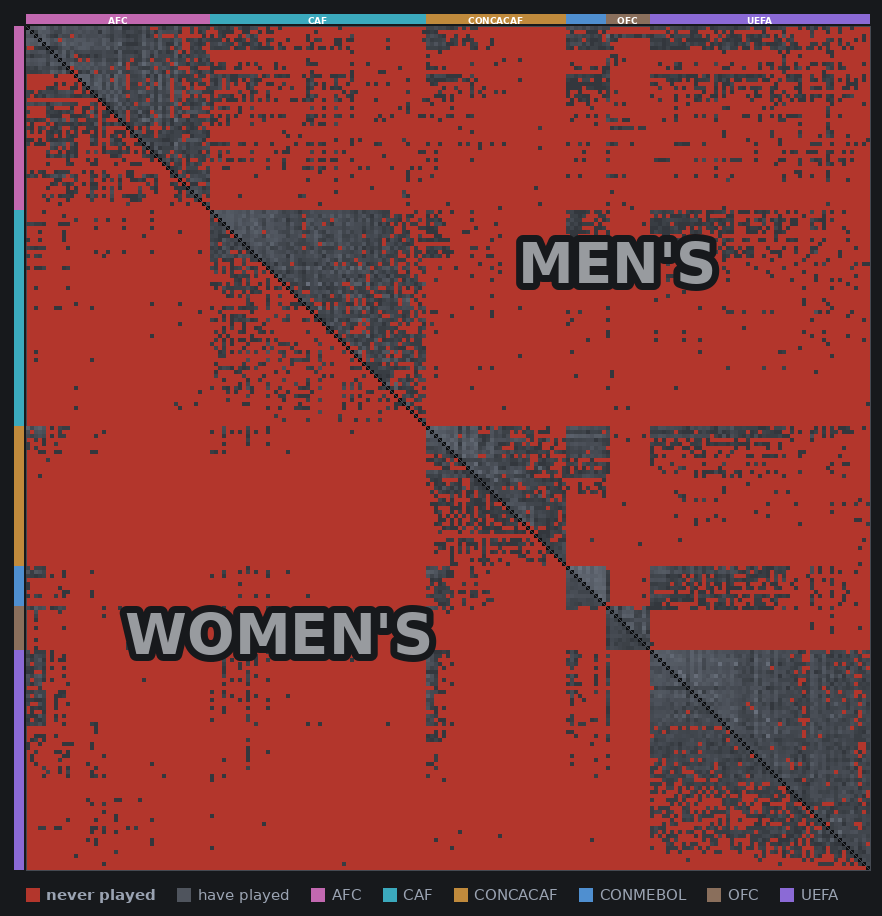
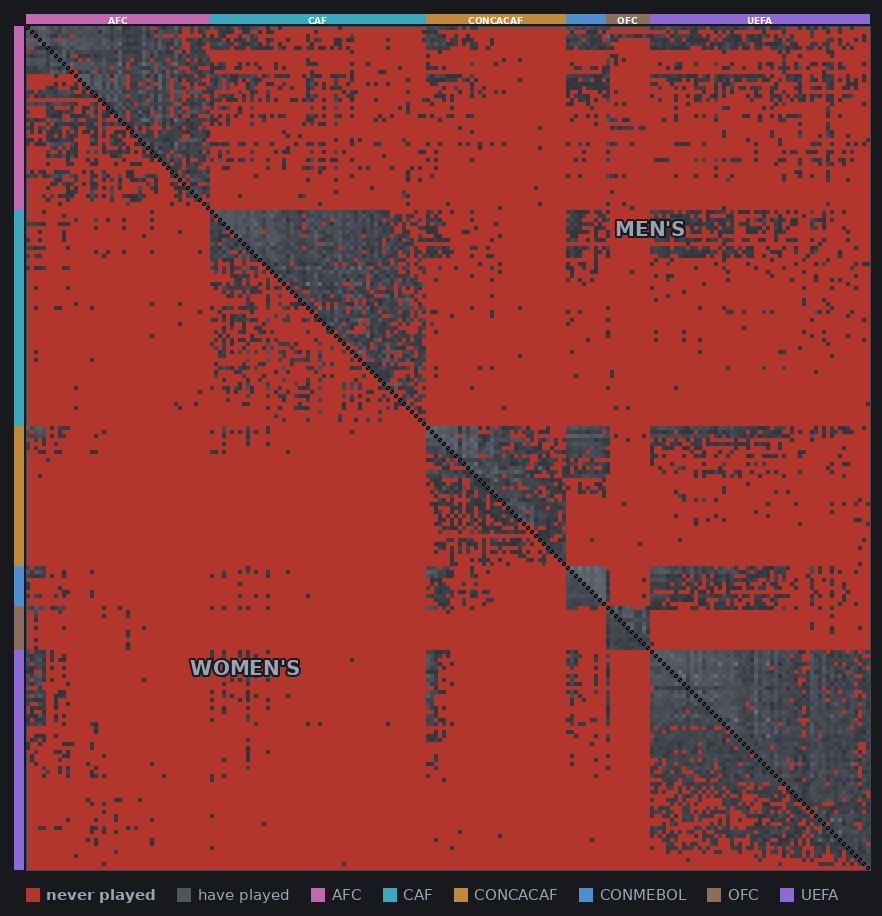
Quieten the crease labels, and say which table the rank comes from (#15)
MEN'S and WOMEN'S were set at a fifteenth of the grid's width, which made
them a headline stamped across the data rather than a note about the fold.
They are a caption now: the panel's own label size and colour, pushed out
towards the corners, haloed thinly enough to survive the red field and the
green ramp without reading as a badge. render_hero.py follows, so the README
image is quiet in the same way. The share card is unchanged — it never drew
them.

The sheet also carries two FIFA rankings, and which of them orders it is not
a question the sheet can answer for you. *Rank by* now reads the men's table,
the women's, the average of the two, or — the default, and what the fold
shipped with — whichever of a team's two ranks is better. It sits under Sort
and greys out over the two orders that read no ranking table at all.

An average is an average only where there are two numbers to take it of, so a
team the chosen table does not rank sorts last, as the women's-only teams
already did. The rank printed beside a team in the panel moves with the
setting and names it on hover, and lands between the tables often enough to
want a decimal.

Claude-Session: https://claude.ai/code/session_01Ktg1PkqJw6sBz1Wh5qyDsh

Changed region(s): [[0.1224, 0.6419, 0.4898, 0.7642], [0.5816, 0.214, 0.8265, 0.3362]]

diff --git a/docs/app.js b/docs/app.js
@@ -37,6 +37,7 @@ const S = {
   view: "grid",
   folded: false,                     // the square folded in half along its diagonal
   sort: "confed",                    // "confed" | "rank" | "matches" | "alpha"
+  rankBy: "best",                    // "best" | "men" | "women" | "avg" — see rankOf()
   showConfeds: new Set(),
   manual: new Set(),
   includeDefunct: false,
@@ -409,11 +410,27 @@ function ensureYearsForView() {
 }
 
 /* ---------- ordering ---------- */
-// One sheet, one order: a team sits at its better (lower) rank of the two tables.
+/* One sheet, two ranking tables, so which one orders it is a question the sheet cannot
+   answer for you. The default is the better of a team's two ranks, which flatters nobody
+   and keeps every team placed. Picking one table sorts the teams it does not rank last,
+   and so does the average, which is an average only when there are two numbers to take
+   it of — about fourteen members have never been given a women's ranking. */
+const RANK_BY = ["best", "men", "women", "avg"];
 function rankOf(m) {
-  return Math.min(m.mens_rank == null ? Infinity : m.mens_rank,
-                  m.womens_rank == null ? Infinity : m.womens_rank);
+  const men = m.mens_rank == null ? Infinity : m.mens_rank;
+  const women = m.womens_rank == null ? Infinity : m.womens_rank;
+  switch (S.rankBy) {
+    case "men": return men;
+    case "women": return women;
+    case "avg": return (men + women) / 2;        // Infinity if either is missing
+    default: return Math.min(men, women);
+  }
 }
+// What the rank shown next to a team, and the order it sits in, is measured against.
+const rankLabel = () => (S.rankBy === "men" ? "men's FIFA rank"
+  : S.rankBy === "women" ? "women's FIFA rank"
+    : S.rankBy === "avg" ? "the average of the two ranks"
+      : "the better of the two ranks");
 
 // Which datasets a pair has met in, as of the scrubber year. Bitmask 1 = men, 2 = women,
 // so 3 = both, 0 = neither. The split square says this with geometry; the single-team card,
@@ -839,17 +856,20 @@ function drawCrease(n, ox, oy, cell) {
   ctx.lineTo(ox + L, oy + L);
   ctx.stroke();
 
+  /* The two halves need naming, but a caption is not a headline: at the panel's own label
+     size and colour they read as an annotation of the crease rather than a word stamped
+     across the data. Haloed in the page ground, because they cross both the red field and
+     the grey one. */
   if (L >= 190) {
-    const size = Math.max(12, Math.min(58, L / 15));
+    const size = Math.max(10, Math.min(20, L / 40));
     ctx.font = `700 ${size}px ui-sans-serif, system-ui, -apple-system, sans-serif`;
     ctx.textAlign = "center";
     ctx.textBaseline = "middle";
     ctx.lineJoin = "round";
-    ctx.lineWidth = Math.max(3, size / 4);
+    ctx.lineWidth = Math.max(2, size / 4);       // a thin halo, not a badge
     ctx.strokeStyle = getCss("--bg");
-    ctx.fillStyle = getCss("--ink");
-    ctx.globalAlpha = .62;
-    for (const [text, fx, fy] of [["MEN'S", .7, .28], ["WOMEN'S", .3, .72]]) {
+    ctx.fillStyle = getCss("--ink-2");
+    for (const [text, fx, fy] of [["MEN'S", .74, .24], ["WOMEN'S", .26, .76]]) {
       const x = ox + L * fx, y = oy + L * fy;
       ctx.strokeText(text, x, y);
       ctx.fillText(text, x, y);
@@ -2180,6 +2200,7 @@ function writeUrl() {
     if (S.view !== "grid") p.set("view", S.view);
     if (S.folded) p.set("fold", "1");
     if (S.sort !== "confed") p.set("sort", S.sort);
+    if (S.rankBy !== "best") p.set("rank", S.rankBy);
     if (S.showConfeds.size < S.confedOrder.length) {
       p.set("confed", [...S.showConfeds].join(",") || "none");
     }
@@ -2206,6 +2227,7 @@ function readUrl() {
   S.folded = p.get("fold") === "1" || p.get("g") === "both";
   const sort = p.get("sort");
   if (["confed", "rank", "matches", "alpha"].includes(sort)) S.sort = sort;
+  if (RANK_BY.includes(p.get("rank"))) S.rankBy = p.get("rank");
   if (p.has("confed")) {
     const raw = p.get("confed");
     S.showConfeds = new Set(raw === "none" ? []
@@ -2377,7 +2399,22 @@ function buildControls() {
 
   const sortSel = $("sort");
   sortSel.value = S.sort;
-  sortSel.addEventListener("change", e => { S.sort = e.target.value; recompute(true); });
+  sortSel.addEventListener("change", e => {
+    S.sort = e.target.value;
+    syncRankBy();
+    recompute(true);
+  });
+
+  const rankSel = $("rank-by");
+  if (rankSel) {
+    rankSel.value = S.rankBy;
+    rankSel.addEventListener("change", e => {
+      S.rankBy = e.target.value;
+      buildTeamList();                           // the rank printed per team moves with it
+      recompute(true);
+    });
+  }
+  syncRankBy();
 
   // confederation checkboxes
   const counts = {};
@@ -2511,6 +2548,18 @@ function buildControls() {
   });
 }
 
+/* The rank basis only bites on the two orders that read a ranking table. Enabled and
+   inert over "total matches" or "alphabetical", it would read as a broken control. */
+function syncRankBy() {
+  const el = $("rank-by");
+  if (!el) return;
+  const bites = S.sort === "confed" || S.sort === "rank";
+  el.disabled = !bites;
+  el.title = bites ? "" : "This sort does not read a ranking table";
+  const row = $("rank-by-row");
+  if (row) row.classList.toggle("dim", !bites);
+}
+
 function toggleConfeds(on) {
   S.showConfeds = on ? new Set(S.confedOrder) : new Set();
   document.querySelectorAll("#confed-list input").forEach(i => { i.checked = on; });
@@ -2528,9 +2577,13 @@ function buildTeamList() {
     if (q && !m.name.toLowerCase().includes(q)) continue;
     const lab = document.createElement("label");
     const r = rankOf(m);
-    const rk = (r && r !== Infinity) ? `#${r}` : (m.defunct ? "defunct" : "unranked");
+    // An averaged rank lands between the two tables, so it is not always a whole number.
+    const rk = (r && r !== Infinity)
+      ? `#${Number.isInteger(r) ? r : r.toFixed(1)}`
+      : (m.defunct ? "defunct" : "unranked");
     lab.innerHTML = `<input type="checkbox" data-id="${m.id}" ${S.manual.has(m.id) ? "checked" : ""}>
-      ${esc(teamLabel(m))} <span class="rk">${esc(m.confed)} ${esc(rk)}</span>`;
+      ${esc(teamLabel(m))} <span class="rk" title="${esc(rankLabel())}">`
+      + `${esc(m.confed)} ${esc(rk)}</span>`;
     list.appendChild(lab);
   }
   list.onchange = e => {

diff --git a/docs/style.css b/docs/style.css
@@ -171,10 +171,14 @@ button.mini:hover { color: var(--ink); border-color: var(--ink); }
 .team-list .rk { margin-left: auto; color: var(--ink-3); font-size: .68rem; font-variant-numeric: tabular-nums; }
 .team-list input { accent-color: var(--pos); }
 
-#sort, .path-pick select {
+#sort, #rank-by, .path-pick select {
   width: 100%; padding: 7px 9px; background: var(--paper); border: 1px solid var(--grid-strong);
   color: var(--ink); border-radius: var(--radius); font-size: .85rem; cursor: pointer; font-family: inherit;
 }
+#rank-by-row { margin-top: 10px; }
+/* Greyed out under a sort that reads no ranking table, label and all. */
+#rank-by:disabled { opacity: .45; cursor: default; }
+#rank-by-row.dim .lbl { opacity: .45; }
 
 /* timeline */
 #timeline-toggle { display: none; }          /* phone-only; see the mobile block below */

diff --git a/docs/index.html b/docs/index.html
@@ -63,6 +63,15 @@
         <option value="matches">Total matches played</option>
         <option value="alpha">Alphabetical</option>
       </select>
+      <div class="row" id="rank-by-row"><label class="lbl" for="rank-by">Rank by</label></div>
+      <select id="rank-by">
+        <option value="best">The better of the two</option>
+        <option value="men">Men's FIFA rank</option>
+        <option value="women">Women's FIFA rank</option>
+        <option value="avg">The average of the two</option>
+      </select>
+      <p class="hint">One sheet, two ranking tables. Teams the chosen table does not rank
+        sort last.</p>
     </section>
 
     <section class="ctl">

diff --git a/render_hero.py b/render_hero.py
@@ -116,10 +116,9 @@ def load_sheet():
     return members, counts, played, max_count
 
 
-def watermark_ink() -> tuple[int, int, int]:
-    """The half-labels, matching the canvas: --ink at 62% over the page ground."""
-    c0, c1 = hexrgb(CHROME), hexrgb(VARS["--ink"])
-    return tuple(round(a + (b - a) * 0.62) for a, b in zip(c0, c1))
+def crease_ink() -> tuple[int, int, int]:
+    """The half-labels. A caption, not a headline — the panel's own label colour."""
+    return hexrgb(VARS["--ink-2"])
 
 
 def played_grey(t: float) -> tuple[int, int, int]:
@@ -169,14 +168,14 @@ def draw_grid(d: ImageDraw.ImageDraw, members, counts, max_count, ox: int, oy: i
     d.line([(ox, oy), (ox + size, oy + size)],
            fill=GRID_STRONG, width=max(1, min(3, round(cell * 0.3))))
     if label:
-        pt = max(12, min(58, size // 15))
+        pt = max(10, min(20, size // 40))
         font = load_font(pt)
-        for text, fx, fy in (("MEN'S", 0.70, 0.28), ("WOMEN'S", 0.30, 0.72)):
+        for text, fx, fy in (("MEN'S", 0.74, 0.24), ("WOMEN'S", 0.26, 0.76)):
             box = d.textbbox((0, 0), text, font=font)
             d.text((ox + size * fx - (box[2] - box[0]) / 2 - box[0],
                     oy + size * fy - (box[3] - box[1]) / 2 - box[1]),
-                   text, font=font, fill=watermark_ink(),
-                   stroke_width=max(2, pt // 8), stroke_fill=hexrgb(CHROME))
+                   text, font=font, fill=crease_ink(),
+                   stroke_width=max(1, pt // 7), stroke_fill=hexrgb(CHROME))
 
     if band:                                        # confederation strips (top + left)
         font = load_font(max(9, band - 3))

diff --git a/README.md b/README.md
@@ -62,7 +62,11 @@ which is the only view with a sheet to fold; the four lists read both archives e
 - **Tick one team** for its full record, ranked most- to least-played. Tick several to build a
   sub-grid.
 - **Upcoming first meetings** highlighted in yellow, from scheduled fixtures up to two years out.
-- **Sort** by confederation then rank, by global rank, by total matches played, or alphabetically.
+- **Sort** by confederation then rank, by global rank, by total matches played, or
+  alphabetically — and choose which table the rank comes from. One sheet has two FIFA
+  rankings on it, so *Rank by* reads the men's, the women's, the average of the two, or (the
+  default) whichever of a team's two ranks is better. Teams the chosen table does not rank
+  sort last.
 - **Include defunct teams**, for Yugoslavia, Czechoslovakia, East Germany, the Saar, South
   Vietnam and South Yemen.
 - **Three kinds of empty, told apart.** Never met, had not happened yet at the scrubbed year,
@@ -100,7 +104,9 @@ Martinique and Jersey, are excluded, and the build prints all of them.
 
 **Rankings are current and per-gender**, pulled at build time. The publication date is recorded
 in `members.json` and shown in the app footer. About 14 members have never been given a women's
-ranking and sort last within their confederation.
+ranking; under *Rank by* they sort last on the women's table and on the average, which is an
+average only where there are two numbers to take it of. The default — the better of a team's
+two ranks — always has one.
 
 **The archives have a cut-off.** martj42 updates within a day or two of most internationals.
 The current cut-off for each is in `members.json` as `data_through`, and in the app footer.
